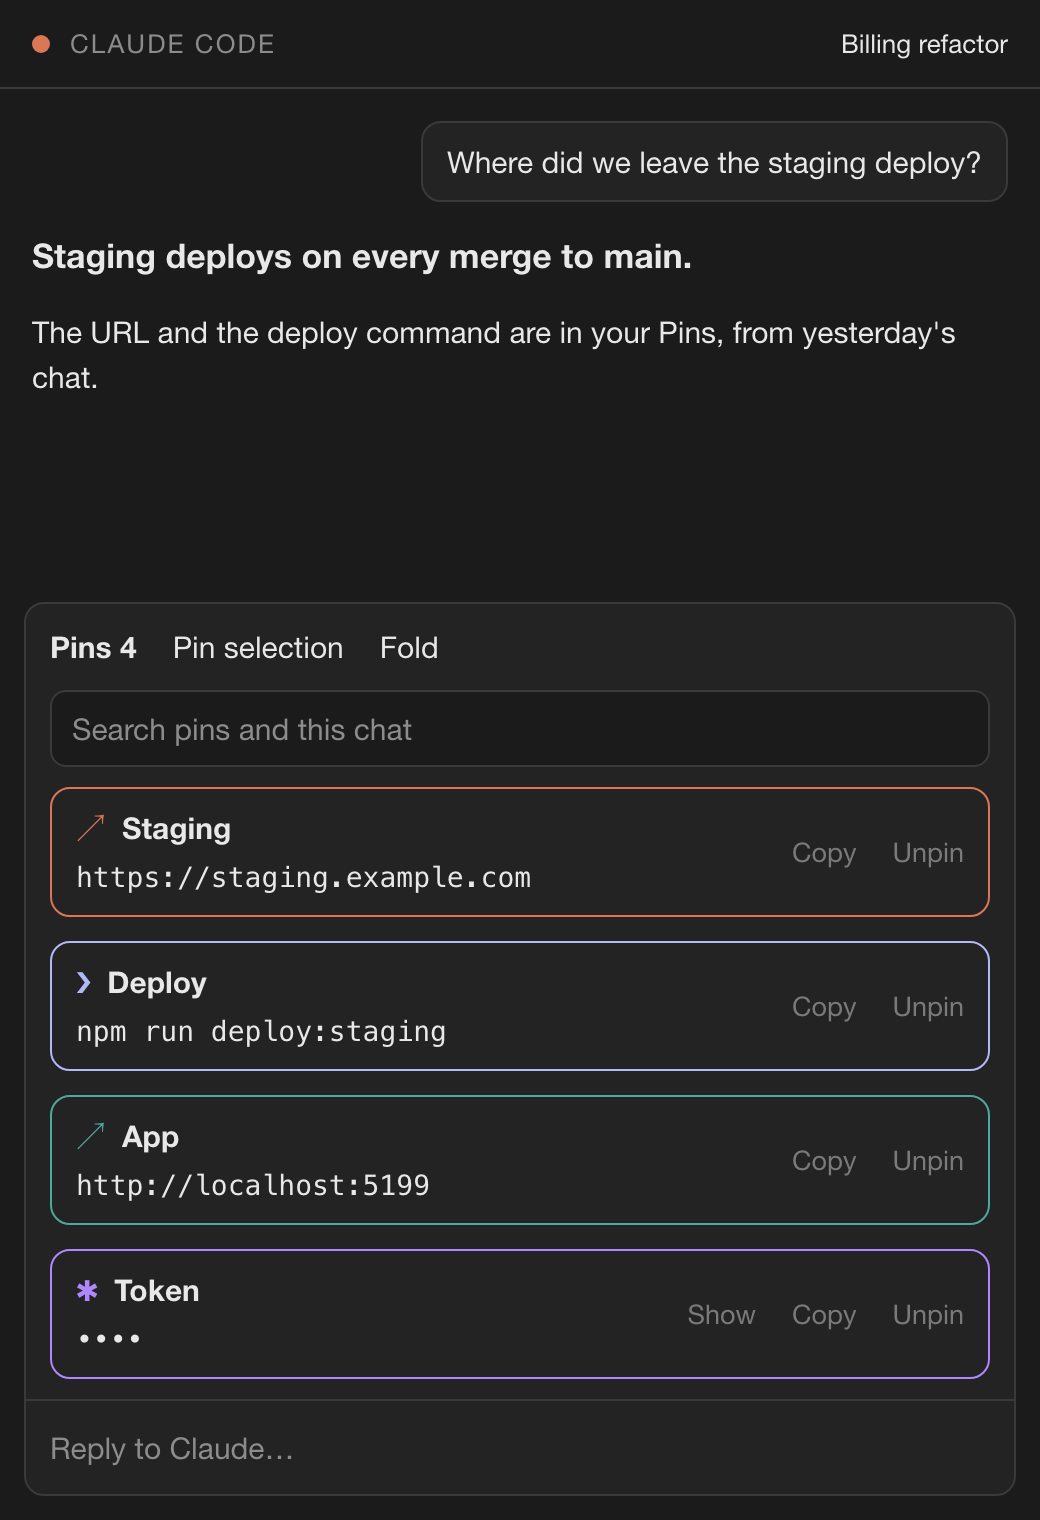
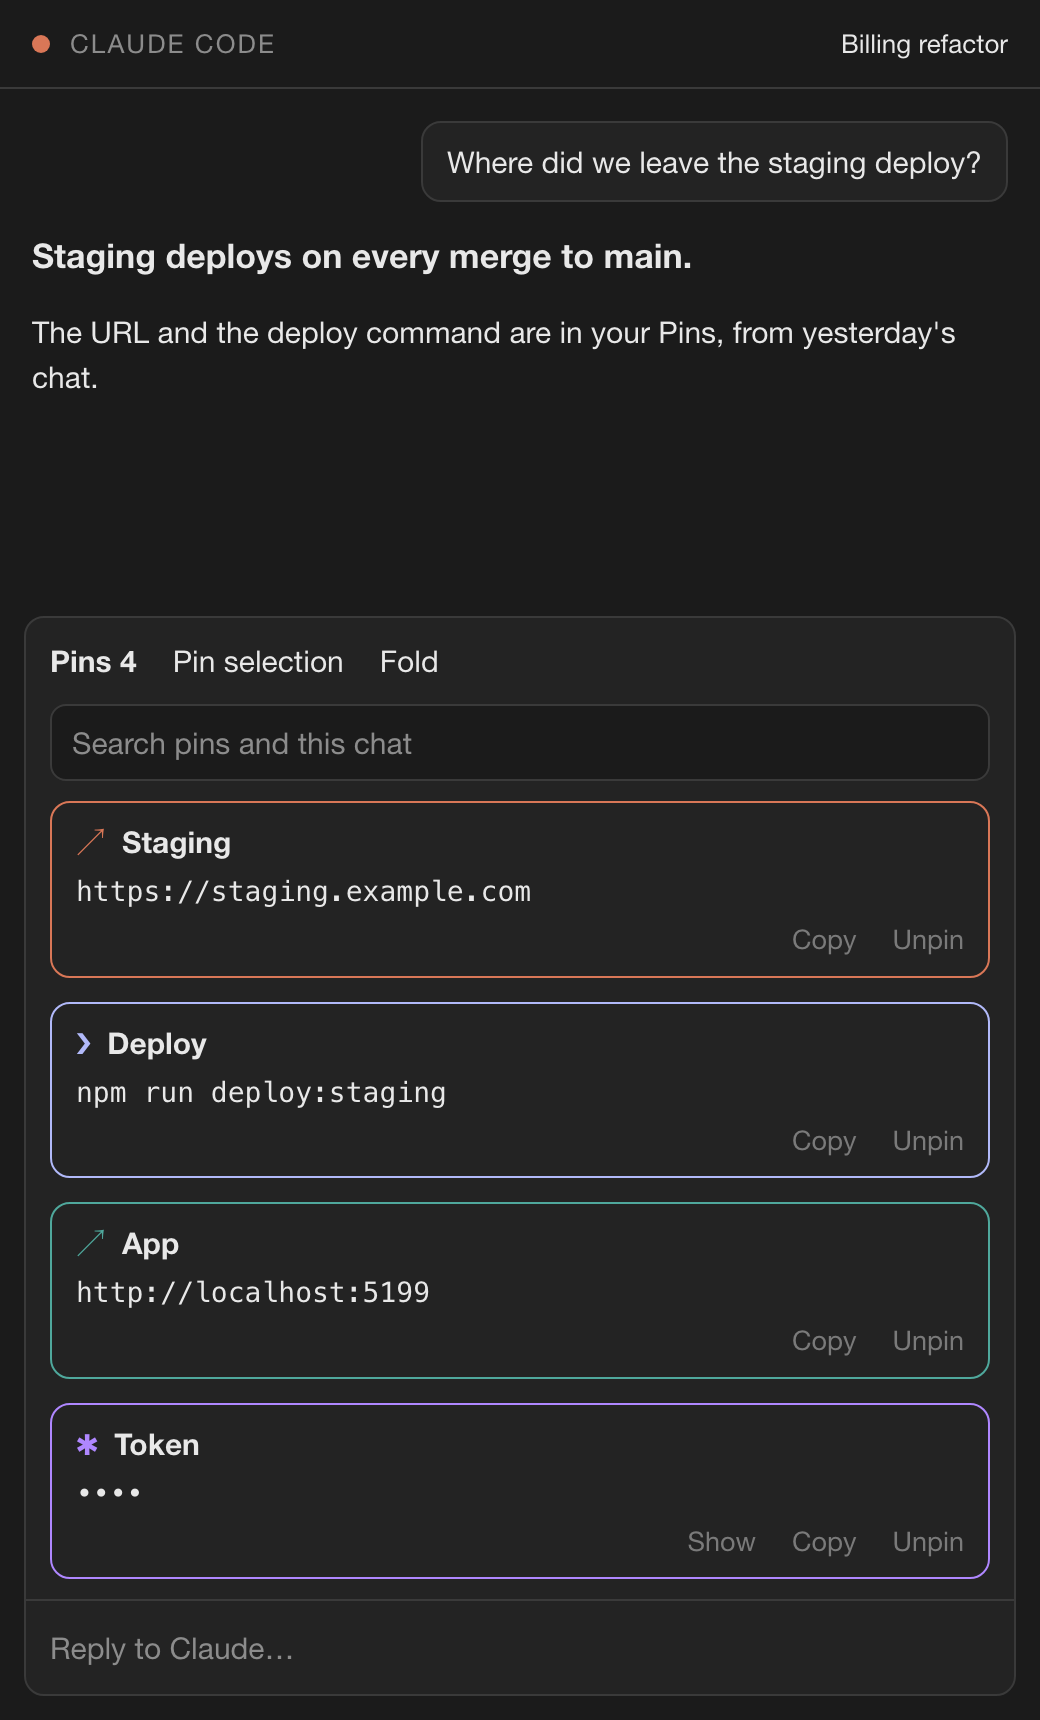
fix: put pin card buttons under the value, in the bottom right corner
Beside the text, the buttons crowded long values. They go back to a
row under the value, now aligned to the card's bottom right corner.
Search hits match.

diff --git a/hooks/pane.tsx b/hooks/pane.tsx
@@ -68,7 +68,7 @@ export const registerPane = (on: On): void => {
       else $.ui.toast(PICK_FIRST)
     }
 
-    // Each pin and each hit is a bordered card: its label over the text on the left, its quiet buttons on the right.
+    // Each pin and each hit is a bordered card: its label, the text, then its quiet buttons in the bottom right corner.
     return (
       <Box flexDirection="column" alignItems="stretch" gap={1}>
         <Box flexDirection="row" gap={1}>
@@ -95,12 +95,12 @@ export const registerPane = (on: On): void => {
             : (
                 <Box flexDirection="column" alignItems="stretch" gap="lg">
                   {hits.map((hit, index) => (
-                    <Box key={`hit-card-${index}`} flexDirection="row" justifyContent="space-between" alignItems="center" gap={2} borderStyle="round" borderColor="subtle" paddingX={1}>
-                      <Box flexDirection="column" flexGrow={1} flexShrink={1}>
-                        <Text size="caption" color="subtle">{hit.where}</Text>
-                        <Text>{hit.text}</Text>
+                    <Box key={`hit-card-${index}`} flexDirection="column" alignItems="flex-start" borderStyle="round" borderColor="subtle" paddingX={1}>
+                      <Text size="caption" color="subtle">{hit.where}</Text>
+                      <Text>{hit.text}</Text>
+                      <Box flexDirection="row" alignSelf="flex-end">
+                        <Button key={`hit-${index}`} plain dimColor label="Copy" onPress={press => { void $.ui.copy({ text: hit.copy, surface: press.surface }) }} />
                       </Box>
-                      <Button key={`hit-${index}`} plain dimColor label="Copy" onPress={press => { void $.ui.copy({ text: hit.copy, surface: press.surface }) }} />
                     </Box>
                   ))}
                 </Box>
@@ -113,15 +113,13 @@ export const registerPane = (on: On): void => {
                     const isHidden = pin.secret && !revealed.includes(pin.id)
                     const color = pinColor(pin.id)
                     return (
-                      <Box key={`pin-${pin.id}`} flexDirection="row" justifyContent="space-between" alignItems="center" gap={2} borderStyle="round" borderColor={color} paddingX={1}>
-                        <Box flexDirection="column" flexGrow={1} flexShrink={1}>
-                          <Box flexDirection="row" gap={1}>
-                            <Text color={color}>{PIN_GLYPHS[pinKind(pin)]}</Text>
-                            <Text weight="semibold">{pin.label}</Text>
-                          </Box>
-                          <Text mono>{isHidden ? '••••' : pin.value}</Text>
+                      <Box key={`pin-${pin.id}`} flexDirection="column" alignItems="flex-start" borderStyle="round" borderColor={color} paddingX={1}>
+                        <Box flexDirection="row" gap={1}>
+                          <Text color={color}>{PIN_GLYPHS[pinKind(pin)]}</Text>
+                          <Text weight="semibold">{pin.label}</Text>
                         </Box>
-                        <Box flexDirection="row" gap={2} flexShrink={0}>
+                        <Text mono>{isHidden ? '••••' : pin.value}</Text>
+                        <Box flexDirection="row" gap={2} alignSelf="flex-end">
                           {isHidden ? <Button key={`show-${pin.id}`} plain dimColor label="Show" onPress={() => { void update($, revealedAtom, ids => [...ids, pin.id]) }} /> : null}
                           <Button key={`copy-${pin.id}`} plain dimColor label="Copy" onPress={press => { void $.ui.copy({ text: pin.value, surface: press.surface }) }} />
                           <Button key={`unpin-${pin.id}`} plain dimColor label="Unpin" onPress={() => { void savePins($, list => dropPin(list, pin.id)) }} />

diff --git a/tests/pane.test.tsx b/tests/pane.test.tsx
@@ -73,18 +73,16 @@ const holds = (node: Drawn, key: string): boolean => walk(node).some(one => keyO
 
 const textOf = (node: Drawn): string[] => walk(node).flatMap(one => (one.children ?? []).filter((child): child is string => typeof child === 'string'))
 
-test('a pin card: glyph and label over the value on the left, its buttons on the right', async ($, on) => {
+test('a pin card: glyph and label, the value, then its buttons in the bottom right corner', async ($, on) => {
   const fake = fakeEngine(on)
   seed(fake)
   await startSession($)
   const ui = await $.ui.mount({ ...PANE, surface: 'vscode' })
   await ui.press({ key: 'open' })
   const card = walk(await ui.drawn()).find(node => keyOf(node) === 'pin-app')
-  expect(card?.props).toMatchObject({ flexDirection: 'row', justifyContent: 'space-between', borderStyle: 'round', paddingX: 1 })
-  const [text, actions] = (card?.children ?? []) as Drawn[]
-  expect(text?.props).toMatchObject({ flexDirection: 'column', flexGrow: 1, flexShrink: 1 })
-  expect(actions?.props).toMatchObject({ flexDirection: 'row', flexShrink: 0 })
-  const [title, value] = (text?.children ?? []) as Drawn[]
+  expect(card?.props).toMatchObject({ flexDirection: 'column', borderStyle: 'round', paddingX: 1 })
+  const [title, value, actions] = (card?.children ?? []) as Drawn[]
+  expect(actions?.props).toMatchObject({ flexDirection: 'row', alignSelf: 'flex-end' })
   expect(textOf(title as Drawn)).toEqual([PIN_GLYPHS.link, 'App'])
   const glyph = walk(title).find(node => (node.children ?? []).includes(PIN_GLYPHS.link))
   expect(glyph?.props?.color).toBe(pinColor('app'))
@@ -120,7 +118,7 @@ test('the cards sit apart, and no pin says when it goes', async ($, on) => {
   expect(await ui.findAll({ type: 'Text', text: /^Goes in/ })).toHaveLength(0)
   expect(await ui.find({ key: 'keep-app' })).toBeUndefined()
   const note = drawn.find(node => keyOf(node) === 'pin-note')
-  const noteTitle = (((note?.children ?? []) as Drawn[])[0]?.children ?? [])[0] as Drawn
+  const noteTitle = ((note?.children ?? []) as Drawn[])[0] as Drawn
   expect(textOf(noteTitle)).toEqual([PIN_GLYPHS.note, 'Note'])
   await ui.unmount()
 })
@@ -170,7 +168,7 @@ test('the search box spans the tab', async ($, on) => {
   await ui.unmount()
 })
 
-test('a search hit is a gray card with its text on the left and Copy on the right', async ($, on) => {
+test('a search hit is a gray card with Copy in the bottom right corner', async ($, on) => {
   const fake = fakeEngine(on)
   seed(fake)
   await startSession($)
@@ -178,10 +176,10 @@ test('a search hit is a gray card with its text on the left and Copy on the righ
   await ui.press({ key: 'open' })
   await ui.input({ key: 'q', text: 'staging', kind: 'change' })
   const card = walk(await ui.drawn()).find(node => keyOf(node) === 'hit-card-0')
-  expect(card?.props).toMatchObject({ flexDirection: 'row', justifyContent: 'space-between', borderStyle: 'round', borderColor: 'subtle', paddingX: 1 })
-  const [text, copy] = (card?.children ?? []) as Drawn[]
-  expect(text?.props).toMatchObject({ flexDirection: 'column', flexGrow: 1, flexShrink: 1 })
-  expect(holds(copy as Drawn, 'hit-0')).toBe(true)
+  expect(card?.props).toMatchObject({ flexDirection: 'column', borderStyle: 'round', borderColor: 'subtle', paddingX: 1 })
+  const actions = ((card?.children ?? []) as Drawn[])[2]
+  expect(actions?.props).toMatchObject({ flexDirection: 'row', alignSelf: 'flex-end' })
+  expect(holds(actions as Drawn, 'hit-0')).toBe(true)
   expect((await ui.find({ key: 'hit-0' }))?.props).toMatchObject({ plain: true, dimColor: true })
   await ui.unmount()
 })

diff --git a/docs/margin.md b/docs/margin.md
@@ -15,7 +15,7 @@ Current truth for the `margin` mod. The design and its history: [the spec](super
 | `hooks/secrets.ts` | Known key formats plus long high-entropy tokens; a word with two or more `/` is a path, not a token. |
 | `hooks/pins.ts` | Pin rules and the store. Key `pins:<project folder>`. The store is the source of truth on every save. Pins saved by earlier versions with a numeric `expiresAt` (auto-pins nobody kept) are dropped when read; the rest lose the field on the next save. |
 | `hooks/turn.ts` | On `turn.complete` of the main thread: remembers the reply's keep items as `lastKeep` for `/pin` alone. It pins nothing and opens nothing. |
-| `hooks/pane.tsx` | The Pins tab (`margin-pins`). The search box sits in a `width="100%"` column Box that stretches it, since an Input takes no width of its own and a Box lays its children in a row by default. Each pin and search hit is a card with a round border, in a column with an `lg` gap. A pin card's border color is `pinColor(id)`: the id hashed to one of six theme keys (`PIN_COLORS`: `claude`, `suggestion`, `planMode`, `autoAccept`, `warning`, `ide`), so a pin keeps its color for good; a search hit's border is `subtle`. Each card is a row: on the left a column that grows and wraps, with a glyph for the pin's type (`pinKind`, `PIN_GLYPHS`: link `↗`, command `❯`, secret `✱`, note `✎`, drawn in the card's color) before the label, then the value; on the right the plain dim text buttons (Show on a hidden secret, Copy, Unpin), which never shrink. A search hit has the same layout with no glyph: where it came from and the text, then Copy. **Pin selection** in the header pins the selection. |
+| `hooks/pane.tsx` | The Pins tab (`margin-pins`). The search box sits in a `width="100%"` column Box that stretches it, since an Input takes no width of its own and a Box lays its children in a row by default. Each pin and search hit is a card with a round border, in a column with an `lg` gap. A pin card's border color is `pinColor(id)`: the id hashed to one of six theme keys (`PIN_COLORS`: `claude`, `suggestion`, `planMode`, `autoAccept`, `warning`, `ide`), so a pin keeps its color for good; a search hit's border is `subtle`. Each card is a column: a glyph for the pin's type (`pinKind`, `PIN_GLYPHS`: link `↗`, command `❯`, secret `✱`, note `✎`, drawn in the card's color) before the label, then the value, then a row of plain dim text buttons (Show on a hidden secret, Copy, Unpin) in the bottom right corner (`alignSelf="flex-end"`). A search hit has the same layout with no glyph: where it came from, the text, then Copy in the bottom right. **Pin selection** in the header pins the selection. |
 | `hooks/search.ts` | Pins first, then this chat newest first, 20 results. Only messages with text are numbered (tool-result rows are skipped), and a word that looks like a key shows as `••••` (Copy keeps the raw line). |
 | `hooks/commands.ts` | `/pin` (pins, then opens the Pins tab as it was, folded or open) and `/margin`. `/pin` alone pins the mouse selection first, and the last reply's keep items only when nothing is selected. |
 | `hooks/settings.ts` | `/margin off` and `on`, store key `settings`. |

diff --git a/README.md b/README.md
@@ -25,7 +25,7 @@ No account, no server, no network access. It runs inside Claude Code and never w
 
 <p align="center">
   <img src="docs/images/reply-vscode.png" alt="A reply drawn by margin in the VS Code side panel: the green Keep card with Copy and Pin, the answer first and short paragraphs" width="49%">
-  <img src="docs/images/pins.png" alt="The open Pins tab: a full-width search box and each pin as a card bordered in its own color, a glyph for its type before the label, and quiet Copy and Unpin on the right" width="49%">
+  <img src="docs/images/pins.png" alt="The open Pins tab: a full-width search box and each pin as a card bordered in its own color, a glyph for its type before the label, and quiet Copy and Unpin in the bottom right corner" width="49%">
 </p>
 
 <p align="center">
@@ -119,7 +119,7 @@ claude --plugin-dir margin-claude-mod
 
 **The Keep card.** A green card at the top of a finished reply, one row per item, each with quiet **Copy** and **Pin** buttons. Pin adds the item to your Pins, and the row then says `Pinned`. It's drawn only once the reply's `keep` block has closed, so you never see half a card while Claude is still writing.
 
-**The Pins tab.** It sits above the prompt, folded to one row with a count, and only opens when you open it. Open, it has a full-width search box and each pin as a card with space around it and a border in its own color, which it keeps for good: a small glyph for what it is (↗ link, ❯ command, ✱ login or key, ✎ note) before the label, the value under it, and quiet **Copy** and **Unpin** buttons on the right, out of the way. Values that look like keys show as `••••` until you click **Show**. Select text in the chat and press **Pin selection** to pin it as a note.
+**The Pins tab.** It sits above the prompt, folded to one row with a count, and only opens when you open it. Open, it has a full-width search box and each pin as a card with space around it and a border in its own color, which it keeps for good: a small glyph for what it is (↗ link, ❯ command, ✱ login or key, ✎ note) before the label, the value under it, and quiet **Copy** and **Unpin** buttons in the bottom right corner, out of the way. Values that look like keys show as `••••` until you click **Show**. Select text in the chat and press **Pin selection** to pin it as a note.
 
 **Search.** Type in the Pins tab to search your pins and every message in the current chat, newest first. Each hit is a card that says where it came from (`pin`, `reply 14`, `you 3`), with **Copy** for the whole line.
 

diff --git a/CHANGELOG.md b/CHANGELOG.md
@@ -2,7 +2,7 @@
 
 ## Unreleased
 
-- Each pin shows a small glyph for what it is (↗ link, ❯ command, ✱ login or key, ✎ note) in its card's color, and the card's buttons sit on the right.
+- Each pin shows a small glyph for what it is (↗ link, ❯ command, ✱ login or key, ✎ note) in its card's color, and the card's buttons sit under the value in the bottom right corner.
 - Each pin card has its own border color from your theme, and a pin keeps its color for good. Search results stay gray.
 - Only pins you choose. A reply's keep items are offered on its Keep card with **Pin**; nothing is pinned and the Pins tab never opens on its own. Pins no longer expire, so `Goes in Nh` and **Keep** are gone. Old auto-pins nobody kept are dropped.
 - Pins are bordered cards with space between them: the label, the value, then quiet text buttons (Copy, Unpin).

diff --git a/docs/superpowers/specs/2026-10-27-pin-glyphs-design.md b/docs/superpowers/specs/2026-10-27-pin-glyphs-design.md
@@ -32,3 +32,4 @@ the action row; the glyph is in the card's color before the label; a search hit 
 ## As built
 
 - Command is `❯` and secret is `✱`, not `›` and `⚿`. Drawn at text size, `›` and `⚿` came out much smaller than `↗` and `✎`; `❯` and `✱` match their weight. `✱` also reads as a masked password.
+- The buttons on the right of the card were moved the same day to a row under the value, aligned to the card's bottom right corner: beside the text they crowded long values. Search hits match.
